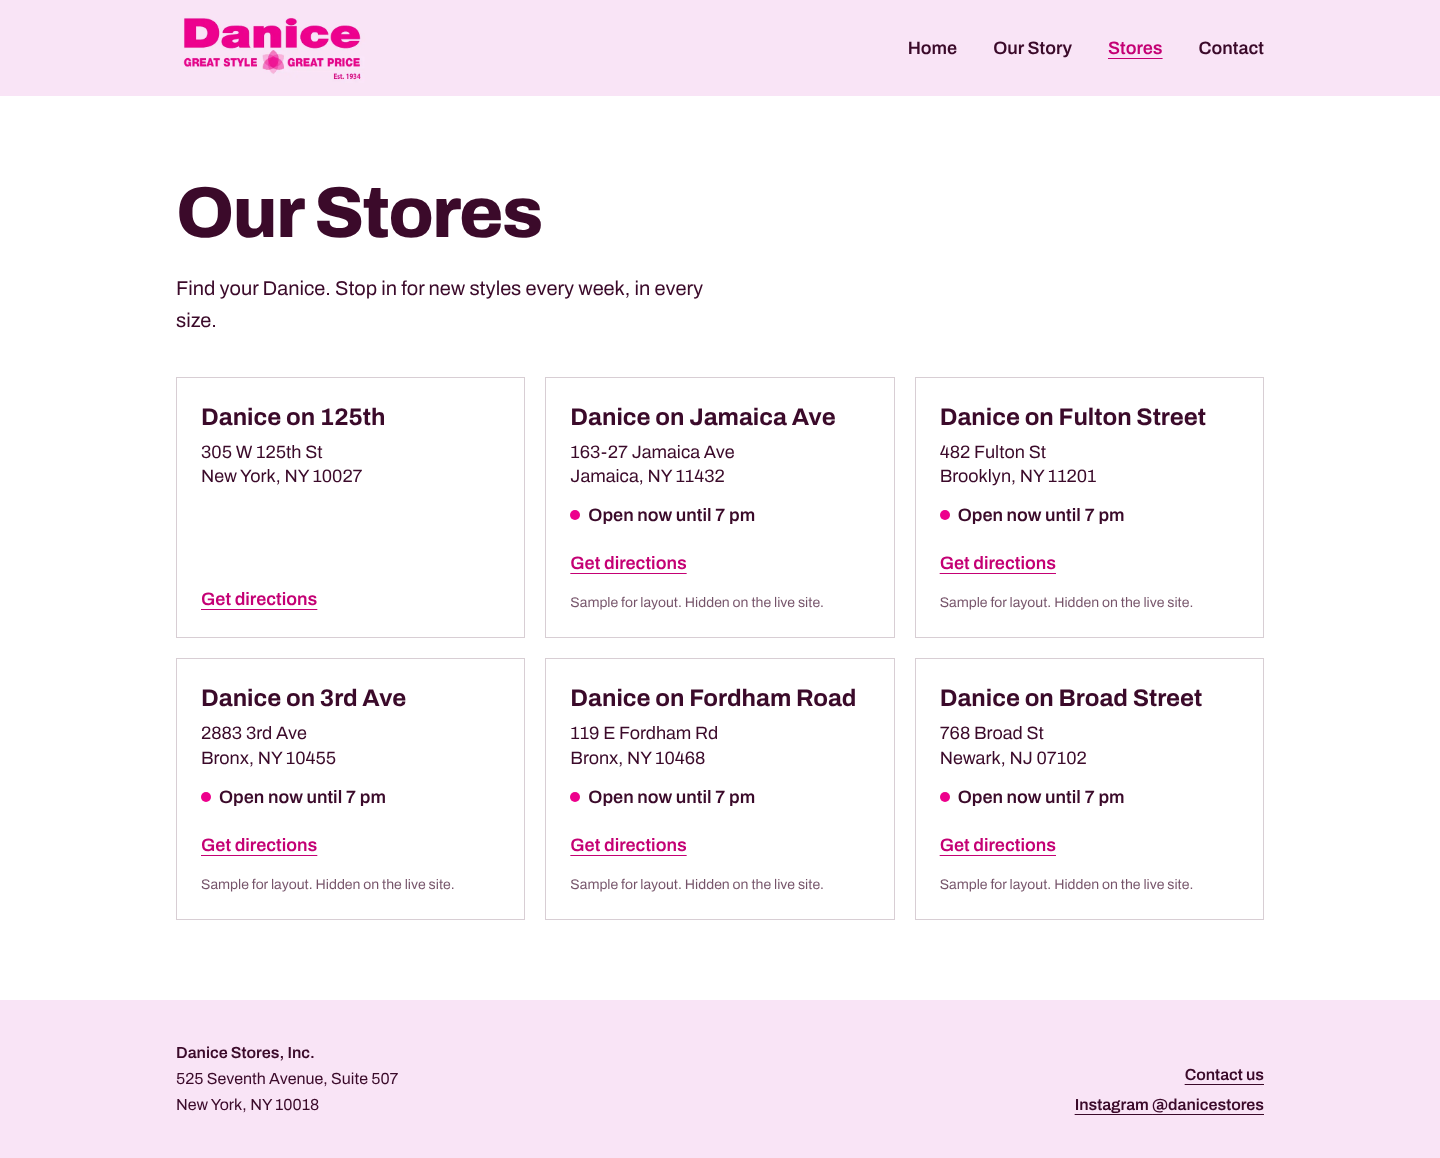
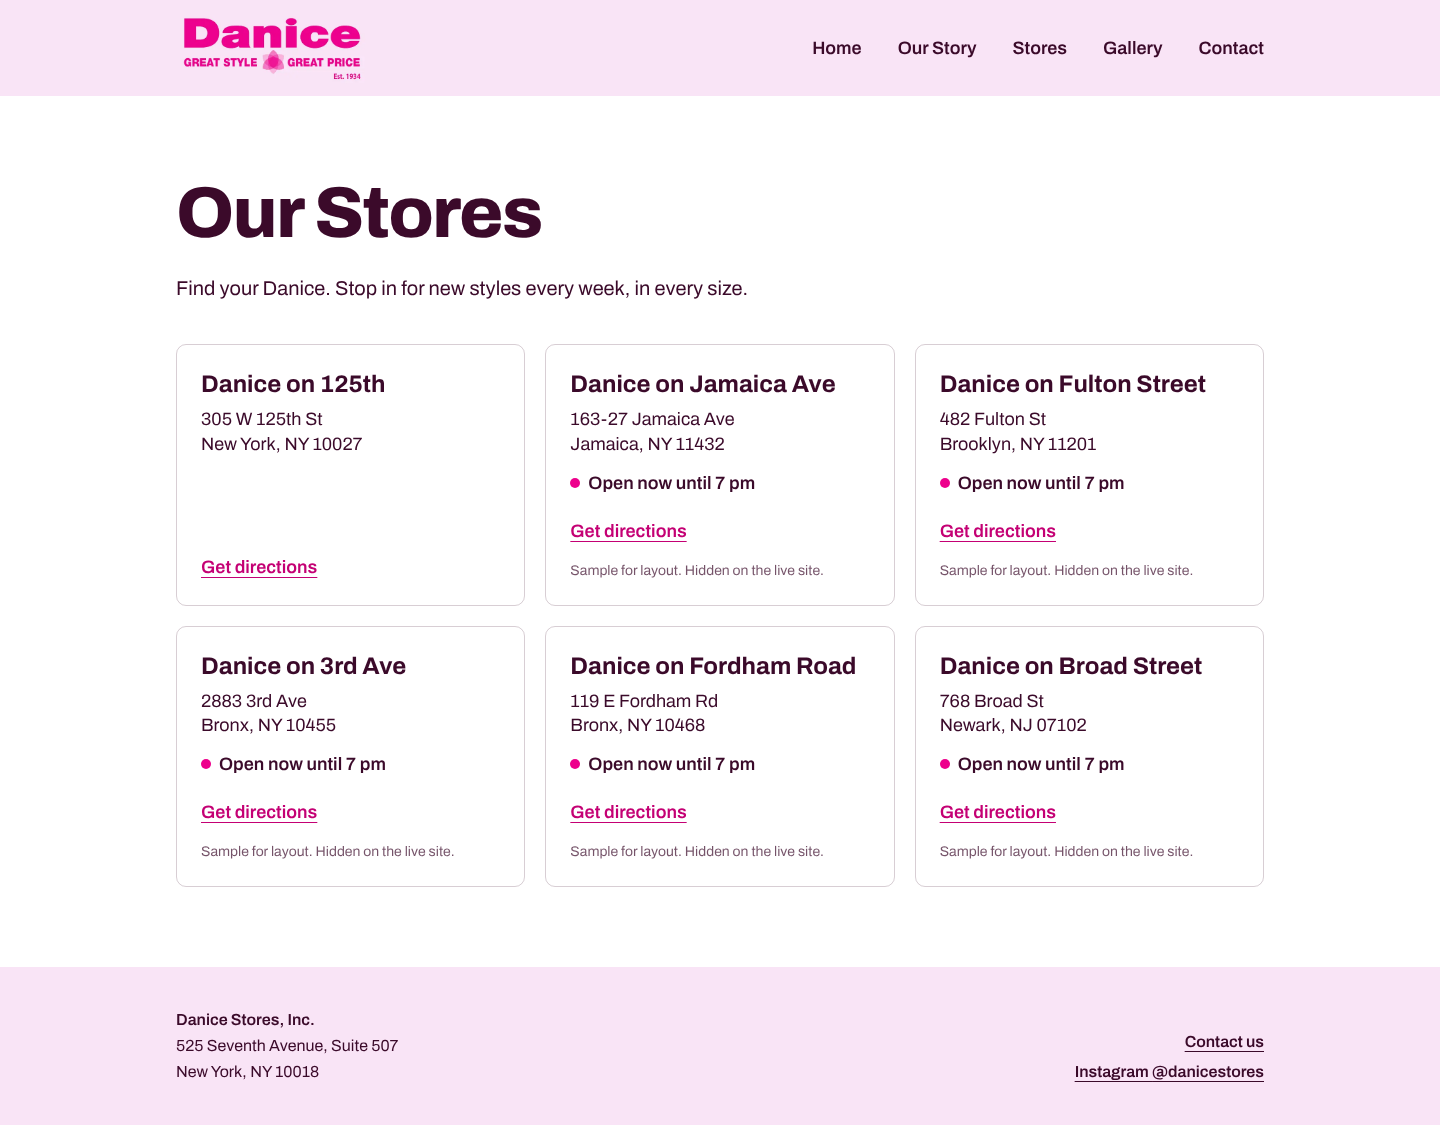
Round panels, store cards and form fields; Stores intro on one line
Claude-Session: https://claude.ai/code/session_01GBwygx9tMhKkzG3j5ZdV8Z

diff --git a/app/contact/ContactForm.tsx b/app/contact/ContactForm.tsx
@@ -12,7 +12,7 @@ const initialState: ContactState = {
 };
 
 const field =
-  "mt-1.5 block w-full border border-plum/40 bg-white px-3.5 py-2.5 text-lg text-plum focus:border-magenta focus:outline-2 focus:outline-offset-0 focus:outline-magenta aria-invalid:border-magenta-deep";
+  "mt-1.5 block w-full rounded-[10px] border border-plum/40 bg-white px-3.5 py-2.5 text-lg text-plum focus:border-magenta focus:outline-2 focus:outline-offset-0 focus:outline-magenta aria-invalid:border-magenta-deep";
 const label = "block text-lg font-semibold";
 
 function FieldError({ id, text }: { id: string; text?: string }) {
@@ -28,7 +28,7 @@ export function ContactForm() {
 
   if (state.status === "sent") {
     return (
-      <div role="status" className="border-l-4 border-magenta bg-blush p-6">
+      <div role="status" className="rounded-[10px] border-l-4 border-magenta bg-blush p-6">
         <h2 className="text-2xl font-bold">Thank you. Your message is on its way.</h2>
         <p className="mt-2 text-lg">We will reply to the email address you gave us.</p>
       </div>
@@ -39,7 +39,7 @@ export function ContactForm() {
   return (
     <form action={formAction} noValidate className="grid gap-5">
       {state.status === "error" ? (
-        <p role="alert" className="border-l-4 border-magenta-deep bg-blush p-4 text-lg font-semibold">
+        <p role="alert" className="rounded-[10px] border-l-4 border-magenta-deep bg-blush p-4 text-lg font-semibold">
           {state.message}
         </p>
       ) : null}

diff --git a/app/our-story/page.tsx b/app/our-story/page.tsx
@@ -100,7 +100,7 @@ export default function OurStory() {
                   {person.title}
                 </p>
                 <p className="mt-3 text-lg leading-relaxed">{person.bio}</p>
-                <figure className="mt-6 border-l-4 border-magenta bg-blush p-6">
+                <figure className="mt-6 rounded-[10px] border-l-4 border-magenta bg-blush p-6">
                   <blockquote className="text-xl leading-snug font-semibold sm:text-2xl sm:leading-snug">
                     &ldquo;{person.quote.text}&rdquo;
                   </blockquote>

diff --git a/app/stores/page.tsx b/app/stores/page.tsx
@@ -14,7 +14,7 @@ export default function Stores() {
       <h1 className="text-[clamp(2.5rem,6vw,4.5rem)] leading-[1.05] font-extrabold tracking-tight">
         Our Stores
       </h1>
-      <p className="mt-5 max-w-[46ch] text-xl leading-relaxed">
+      <p className="mt-5 text-xl leading-relaxed">
         Find your Danice. Stop in for new styles every week, in every size.
       </p>
       <div className="mt-10 grid gap-5 sm:grid-cols-2 lg:grid-cols-3">

diff --git a/app/contact/page.tsx b/app/contact/page.tsx
@@ -31,7 +31,7 @@ export default function Contact() {
           {office.city}, {office.state} {office.zip}
         </address>
 
-        <p className="mt-10 border-l-4 border-magenta bg-blush p-5 text-lg leading-relaxed">
+        <p className="mt-10 rounded-[10px] border-l-4 border-magenta bg-blush p-5 text-lg leading-relaxed">
           Question about a specific store? Call the store directly.{" "}
           <Link
             href="/stores"

diff --git a/components/StoreCard.tsx b/components/StoreCard.tsx
@@ -3,7 +3,7 @@ import { OpenStatus } from "./OpenStatus";
 
 export function StoreCard({ store }: { store: Store }) {
   return (
-    <article className="flex flex-col border border-plum/20 p-6">
+    <article className="flex flex-col rounded-[10px] border border-plum/20 p-6">
       <h3 className="text-2xl leading-tight font-bold">{store.streetName}</h3>
       <p className="mt-2 text-lg leading-snug">
         {store.street}
